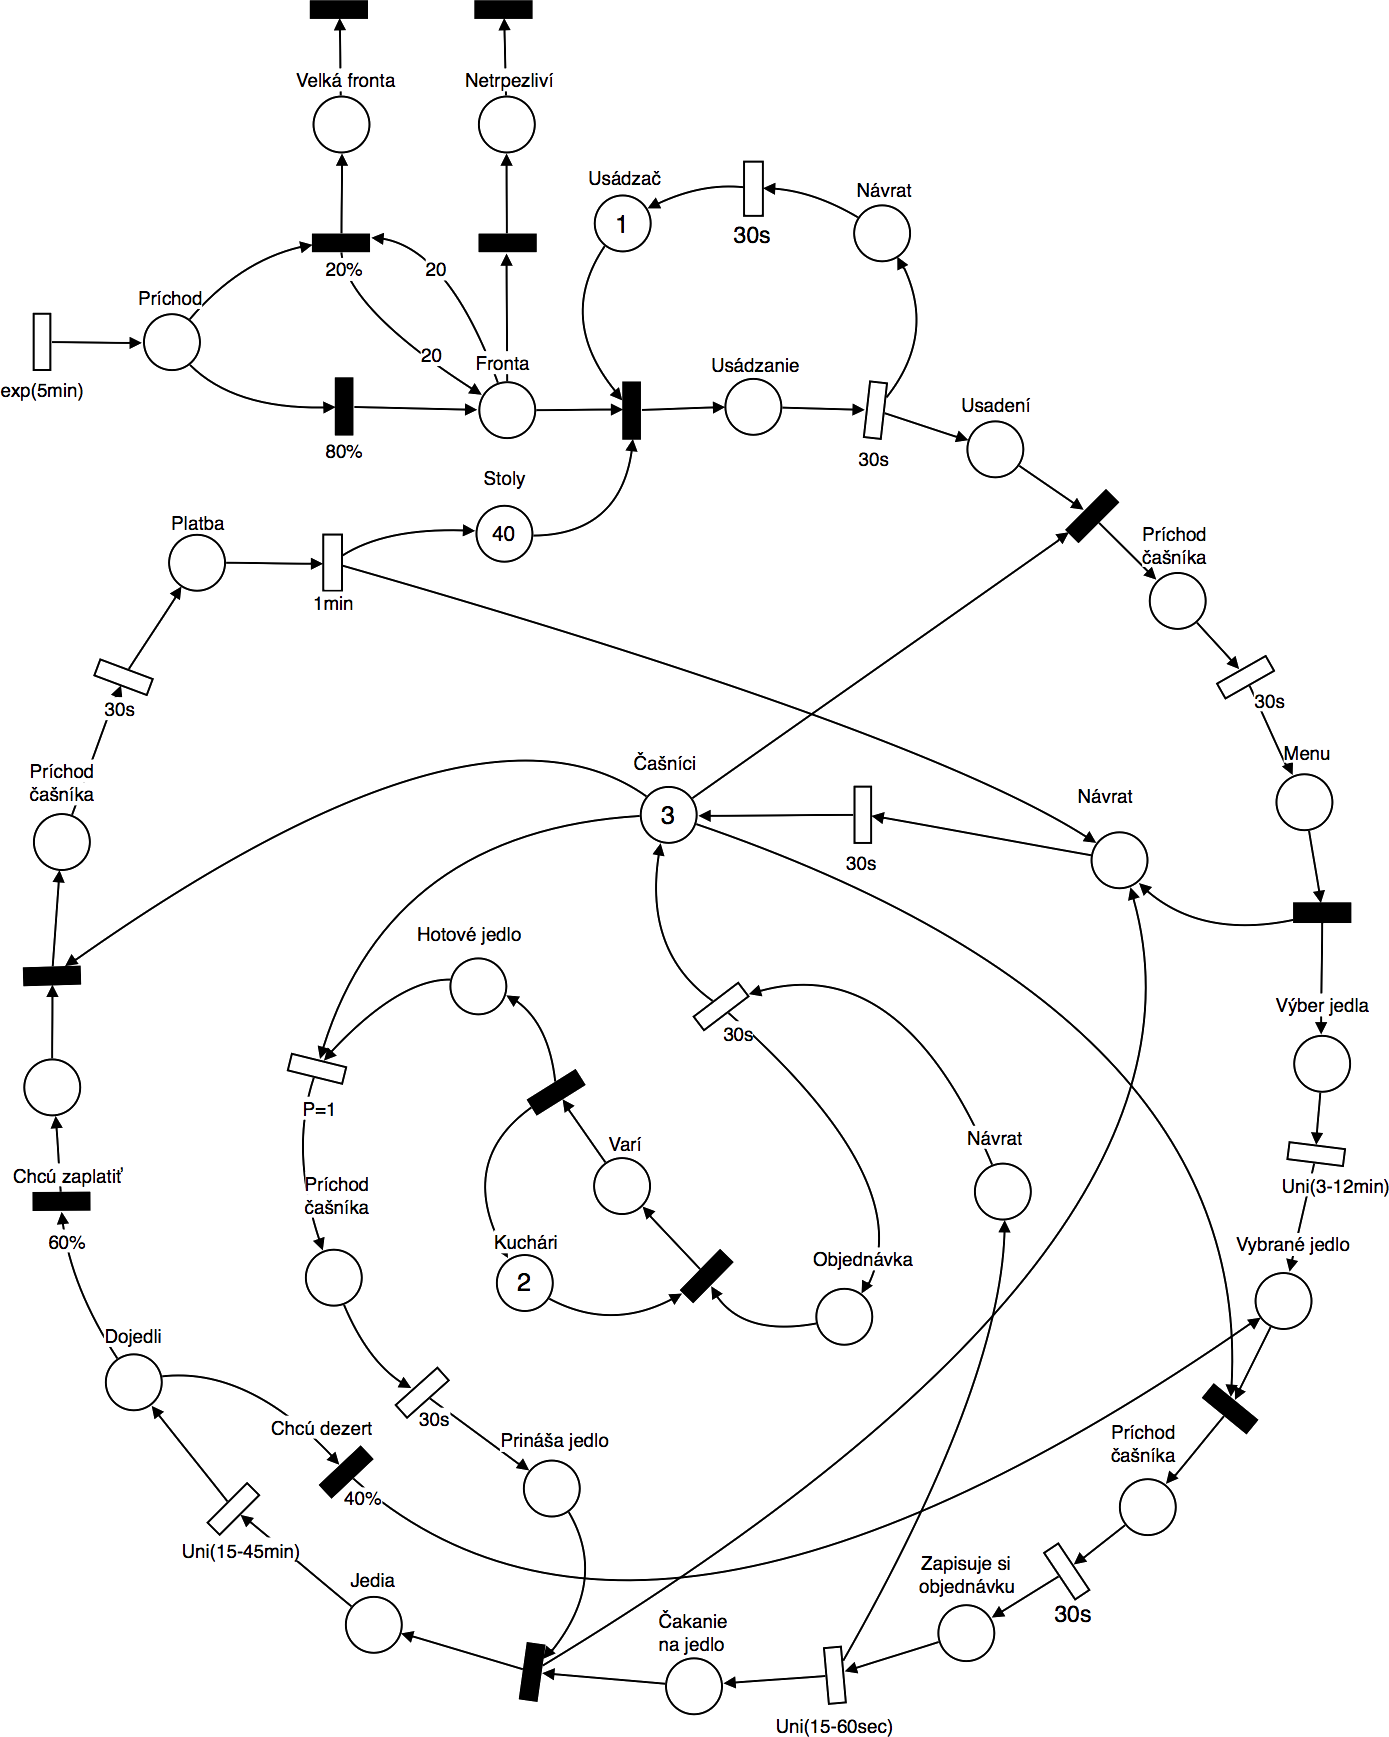
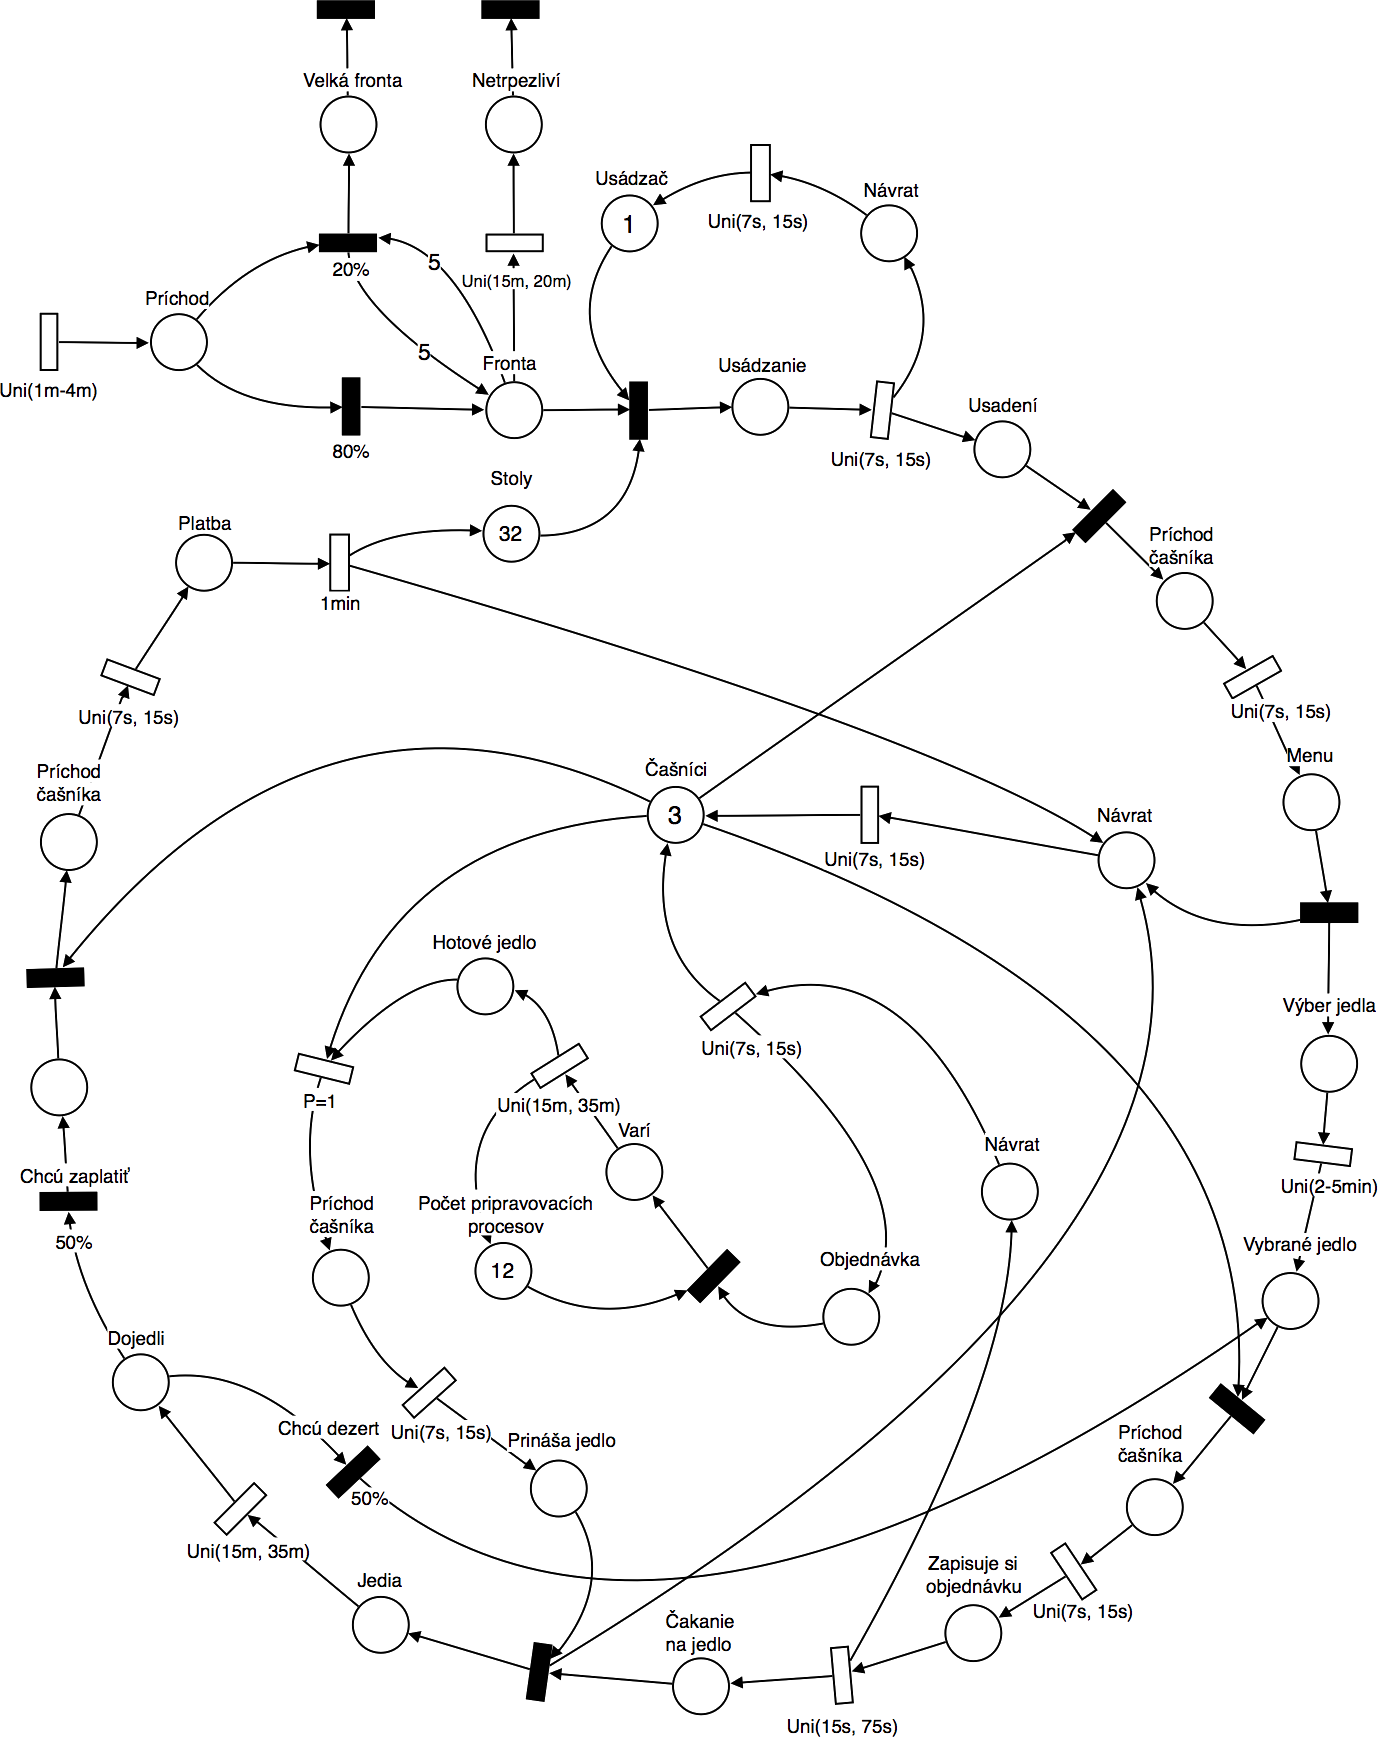
Updage graph, update values

diff --git a/main.cpp b/main.cpp
@@ -33,7 +33,7 @@ using namespace std;
 #define NUMBER_OF_SETTLERS  1
 #define NUMBER_OF_WAITERS   3
 #define NUMBER_OF_TABLES    32
-#define NUMBER_OF_COOKERS   10
+#define NUMBER_OF_COOKERS   12
 
 #define LONG_QUEUE_DECISION_SIZE    5
 #define LONG_QUEUE_DECISION_CHANCE  0.2
@@ -43,11 +43,16 @@ using namespace std;
 
 //##################################################
 
+// Flag if its hot hour
 static bool HOT_HOURS = false;
 
 /** Preparing order time */
-inline double calculateOrderPreparingTime() {
-    return Uniform(MINUTES(15), MINUTES(35));
+inline double calculateOrderPreparingTime(bool desert) {
+    if (desert) {
+        return Uniform(MINUTES(3), MINUTES(10));
+    } else {
+        return Uniform(MINUTES(15), MINUTES(35));
+    }
 }
 
 /** Customer eating duration */
@@ -67,7 +72,7 @@ inline double calculateWritingOrderTime() {
 
 /** Customer choosing time */
 inline double calculateChoosingTime() {
-    return Uniform(MINUTES(2), MINUTES(7));
+    return Uniform(MINUTES(2), MINUTES(5));
 }
 
 /** Customer leave decision time */
@@ -78,7 +83,7 @@ inline double calculateDecisionTime() {
 /** Entering time */
 inline double calculateEnterTime() {
     if (HOT_HOURS) {
-        return Uniform(MINUTES(1), MINUTES(5));
+        return Uniform(MINUTES(1), MINUTES(4));
     } else {
         return Uniform(MINUTES(3), MINUTES(12));
     }
@@ -342,7 +347,7 @@ public:
                     asynRoutine->Enter(cookers);
                     LogTime("[COOKER: %s] Has started cooking (Free cookers: %i)", asynRoutine->Name(), cookers.Free());
                     
-                    preparingTime = calculateOrderPreparingTime();
+                    preparingTime = calculateOrderPreparingTime(!reorderCount);
                     
                     LogTime("[COOKER: %s] Prepare food for %s (%s)", asynRoutine->Name(), self->getID(), time_to_string(preparingTime).c_str());
                     
